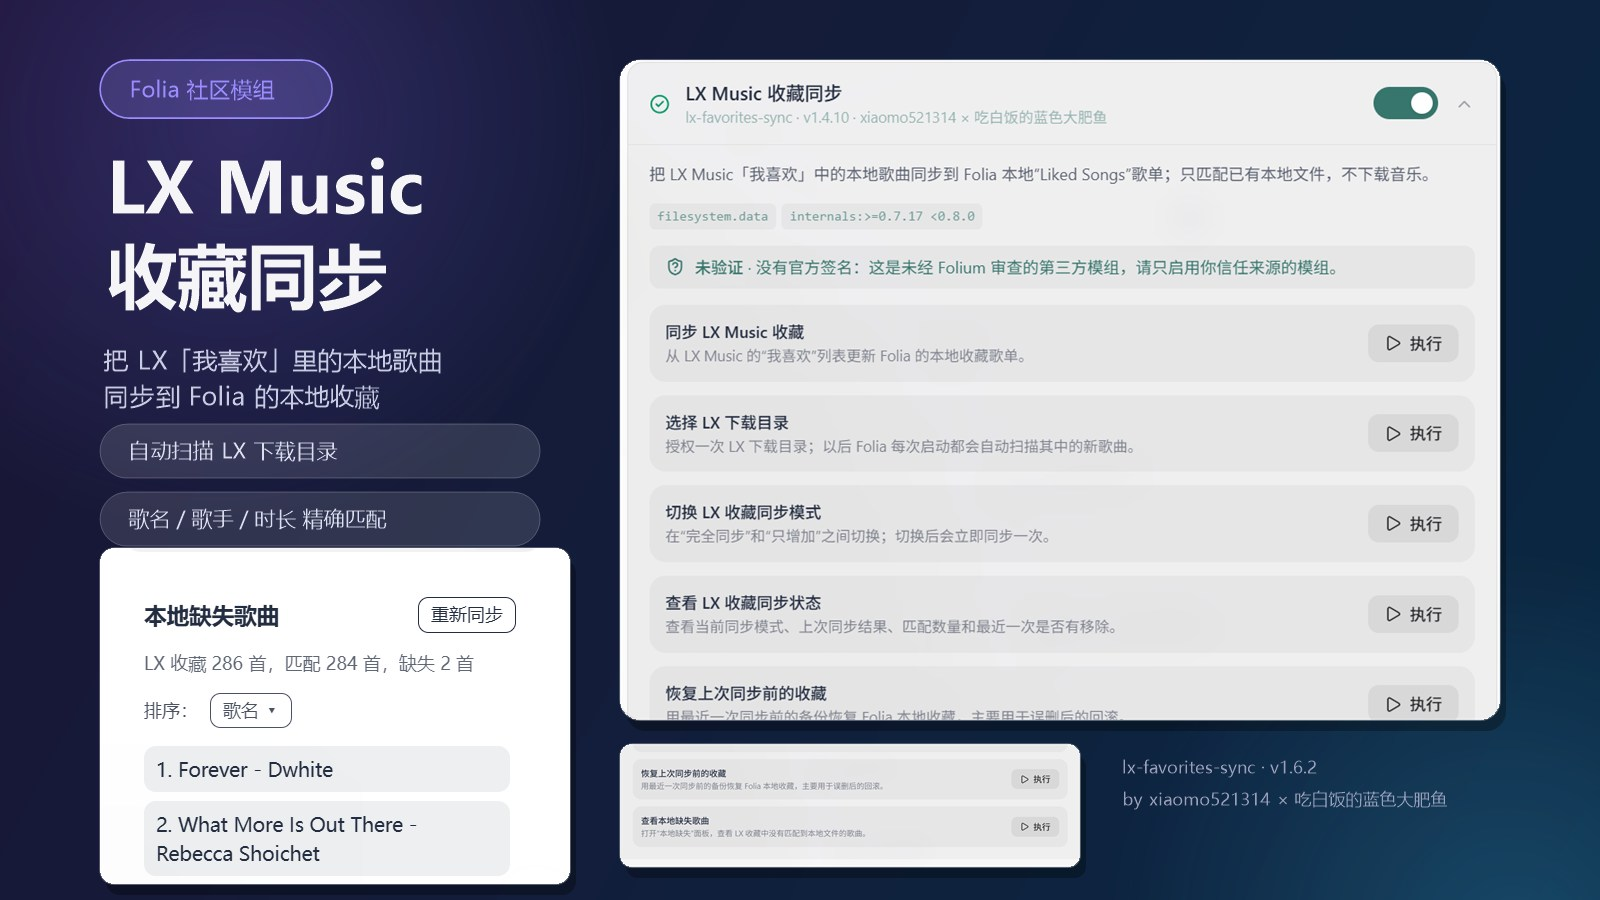
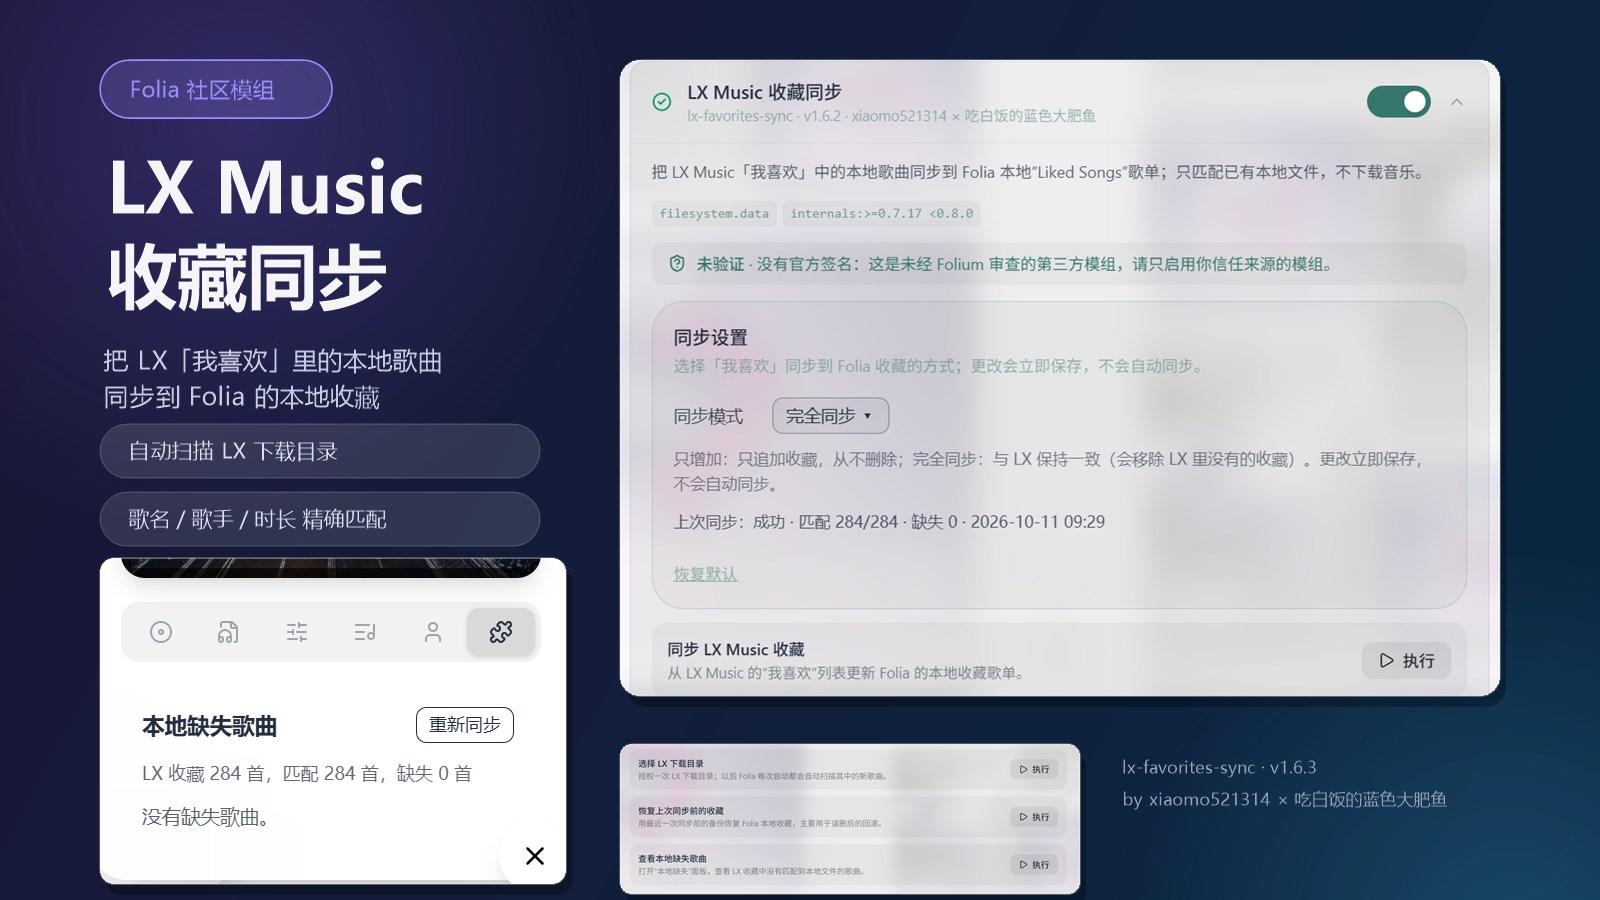
v1.6.3：上次同步时间显示为本地时间；介绍图更新为新界面实拍

diff --git a/lx-favorites-sync/client.js b/lx-favorites-sync/client.js
@@ -519,6 +519,16 @@ const eventPathIncludes = (event, element) => {
   return path.includes(element) || (event.target instanceof Node && element.contains(event.target));
 };
 
+// 状态文件写的是 UTC ISO 时间；界面里统一换算成本地时间显示。
+const formatLocalTimestamp = (value) => {
+  const date = new Date(String(value || ''));
+  if (Number.isNaN(date.getTime())) {
+    return '';
+  }
+  const pad = (part) => String(part).padStart(2, '0');
+  return `${date.getFullYear()}-${pad(date.getMonth() + 1)}-${pad(date.getDate())} ${pad(date.getHours())}:${pad(date.getMinutes())}`;
+};
+
 // 「同步设置」分区的自绘面板：宿主的 select 会弹出 Windows 系统配色的选项列表，
 // 这里改用自己的下拉控件（颜色跟随主题），并顺带显示上次同步结果。
 const mountSyncSettingsPanel = (folium, container, ctx) => {
@@ -631,8 +641,7 @@ const mountSyncSettingsPanel = (folium, container, ctx) => {
         statusLine.textContent = text('还没有同步记录；点进度条旁的按钮可以立即同步。', 'No sync yet; use the button next to the progress bar.');
         return;
       }
-      const at = String(status.at || '');
-      const time = at.includes('T') ? `${at.slice(0, 10)} ${at.slice(11, 16)}` : '';
+      const time = formatLocalTimestamp(status.at);
       statusLine.textContent = text(
         `上次同步：${status.ok ? '成功' : '失败'} · 匹配 ${status.matchedCount || 0}/${status.sourceCount || 0} · 缺失 ${status.unmatchedCount || 0}${time ? ` · ${time}` : ''}`,
         `Last sync: ${status.ok ? 'ok' : 'failed'} · matched ${status.matchedCount || 0}/${status.sourceCount || 0} · missing ${status.unmatchedCount || 0}${time ? ` · ${time}` : ''}`
